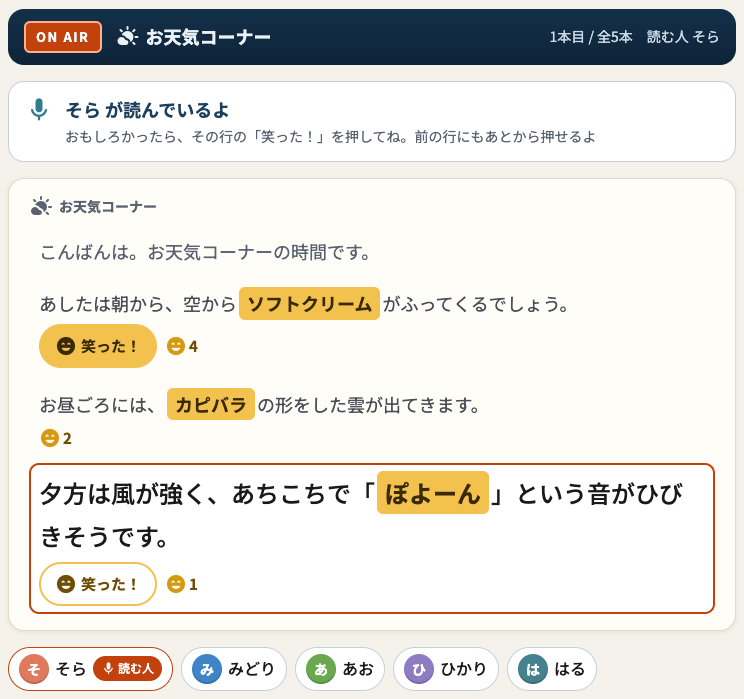
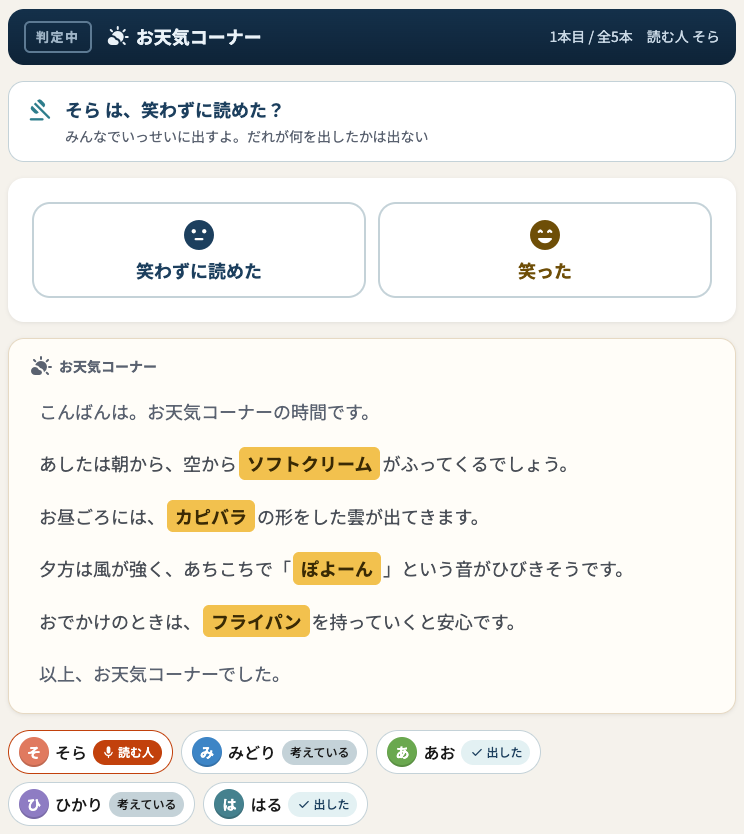
fix(kanpe-housou): 説明スライドとサムネイルを、読みおわったあとの判定のルールに合わせる
- c0cef58 で「笑った！」が、読む人が笑ったかどうかをみんなで出す判定に変わったのに合わせる
- スライドを15枚に: 読む人は笑わずに読みきれるかに挑む／読みおわったら判定（だれが何を出したかは出ない）／
  半分より多ければ読みきり・同じ数は笑っちゃった／交代と「きょうの放送」・順位をオンにしたときの点／
  書くだけの人も判定する／Q&A。発表者ノートも合わせた
- サムネイルを判定の場面（「笑わずに読めた」「笑った」と言葉の入った原稿）に撮り直す（744×834）
- 更新情報・撮影記録・仕様書の枚数を更新

diff --git a/apps/kanpe-housou/slides.html b/apps/kanpe-housou/slides.html
@@ -90,7 +90,7 @@
 
   /* 原稿とカンペの見本 */
   .cols--write{ grid-template-columns:400px 1fr; align-items:start; }
-  .cols--laugh{ grid-template-columns:600px 1fr; align-items:start; }
+  .cols--judge{ grid-template-columns:520px 1fr; align-items:start; }
   .flow--3{ grid-template-columns:repeat(3, 1fr); }
   .hintcard{ background:var(--white); border:1.5px solid var(--line); border-radius:18px; padding:24px 26px; display:flex; flex-direction:column; gap:8px; }
   .hintcard__cap{ font-size:17px; font-weight:700; color:var(--muted); letter-spacing:.08em; }
@@ -100,17 +100,13 @@
   .hintcard__btns{ display:flex; gap:10px; margin-top:6px; }
   .mbtn{ display:inline-flex; align-items:center; justify-content:center; min-width:110px; border-radius:12px; padding:11px 18px; font-size:20px; font-weight:900; border:2px solid var(--line); color:var(--ink); background:#fff; }
   .mbtn--primary{ background:var(--teal); border-color:var(--teal); color:#fff; }
-  .script{ background:var(--kanpe-paper); border:1.5px solid #E6D3BE; border-radius:18px; padding:20px 22px; display:flex; flex-direction:column; gap:10px; }
-  .script__head{ display:flex; align-items:center; gap:10px; font-size:21px; font-weight:900; color:#fff; background:var(--studio); border-radius:10px; padding:9px 14px; }
-  .script__head .material-symbols-rounded{ font-size:24px; color:var(--kanpe); }
-  .script__line{ font-size:22px; line-height:1.7; color:#4A4F57; padding:8px 12px; border-radius:10px; }
-  .script__line--frame{ color:var(--muted); font-size:20px; }
-  .script__line.is-current{ background:#fff; color:var(--ink); font-weight:700; box-shadow:0 0 0 2px var(--air) inset; }
-  .kw{ background:var(--kanpe-bg); color:var(--kanpe-text); border-bottom:3px solid var(--kanpe); border-radius:6px; padding:0 6px; font-weight:900; }
-  .lcount{ display:inline-flex; align-items:center; gap:3px; margin-left:10px; font-size:20px; font-weight:900; color:var(--kanpe-text); vertical-align:middle; }
-  .lcount .material-symbols-rounded{ font-size:26px; color:#D69A12; }
-  .lbtn{ display:inline-flex; align-items:center; gap:4px; margin-left:10px; padding:4px 14px; border:2px solid var(--kanpe); border-radius:999px; background:#fff; color:var(--kanpe-text); font-size:18px; font-weight:900; vertical-align:middle; }
-  .lbtn .material-symbols-rounded{ font-size:22px; }
+  .judgecard{ background:var(--white); border:1.5px solid var(--line); border-radius:18px; padding:26px 26px 28px; display:flex; flex-direction:column; gap:20px; }
+  .judgecard__q{ font-size:28px; font-weight:900; color:var(--ink); }
+  .judgecard__row{ display:grid; grid-template-columns:1fr 1fr; gap:14px; }
+  .choice{ display:flex; flex-direction:column; align-items:center; justify-content:center; gap:8px; min-height:150px; border:2px solid var(--line); border-radius:16px; background:#fff; font-size:22px; font-weight:900; text-align:center; padding:14px 10px; }
+  .choice .material-symbols-rounded{ font-size:52px; }
+  .choice--ok{ color:#1D6F86; border-color:#BFDCE4; background:#EAF4F6; }
+  .choice--laugh{ color:var(--kanpe-text); border-color:var(--kanpe); background:var(--kanpe-bg); }
 
   /* Q&A */
   .qa{ display:flex; flex-direction:column; gap:16px; }
@@ -245,16 +241,16 @@ const SLIDES = [
     sub:'今の気分を、ひとことどうぞ',
     note:'まずはチェックインから！\n今の気分や、最近あったことを、ひとことチャットか声で教えてね\n（カンペ放送局の説明は、このあとすぐ！）' },
 
-  /* 2 */ { type:'title', note:'今日のゲームは「カンペ放送局」\nみんなでテレビやラジオの放送をするよ。読む人の原稿には空らんがあって、そこにほかの人が書いた言葉が入る。どんな放送になるかは、読んでみるまでだれにもわからないよ！' },
+  /* 2 */ { type:'title', note:'今日のゲームは「カンペ放送局」\nみんなでテレビやラジオの放送をするよ。読む人の原稿には空らんがあって、そこにほかの人が書いた言葉が入る。読む人は、どんな言葉が出てきても、笑わずに読みきれるかな？' },
 
   /* 3 */ { type:'content', accent:'teal', section:'ゲームについて', sectionEn:'summary',
-    headline:'原稿の空らんに、<br><span class="hl">みんなが書いた言葉</span>が入る',
+    headline:'原稿の空らんに入った言葉を、<br><span class="hl">笑わずに読みきれるかな？</span>',
     body:`<div class="rows">
       <div class="row"><div class="row__ic"><span class="material-symbols-rounded">edit_note</span></div><div><div class="row__t">書く人は、ヒントだけを見て言葉を書く</div><div class="row__d">「食べ物」「音」のようなヒント。文の中身は知らないまま</div></div></div>
-      <div class="row"><div class="row__ic"><span class="material-symbols-rounded">mic</span></div><div><div class="row__t">読む人は、出てきた言葉をそのまま読む</div><div class="row__d">言葉は、読むときに初めて出てくる</div></div></div>
-      <div class="row"><div class="row__ic"><span class="material-symbols-rounded">sentiment_very_satisfied</span></div><div><div class="row__t">聞いている人は、「笑った！」を押す</div><div class="row__d">おもしろかった言葉に押そう</div></div></div>
+      <div class="row"><div class="row__ic"><span class="material-symbols-rounded">mic</span></div><div><div class="row__t">読む人は、出てきた言葉をそのまま読む</div><div class="row__d">言葉は、読むときに初めて出てくる。笑わずに読みきれるかな</div></div></div>
+      <div class="row"><div class="row__ic"><span class="material-symbols-rounded">gavel</span></div><div><div class="row__t">読み終わったら、みんなで判定</div><div class="row__d">「笑わずに読めた」か「笑った」かを、いっせいに出す</div></div></div>
     </div>`,
-    note:'読む人の原稿には、空らんがあるよ。\nほかの人は「食べ物」「音」みたいなヒントだけを見て、言葉を書く。文の中身は知らないまま書くのがポイント。\n読む人は、出てきた言葉をそのまま読む。言葉は、読むときに初めて出てくるよ。\n聞いている人は、おもしろかった言葉に「笑った！」を押してね。' },
+    note:'読む人の原稿には、空らんがあるよ。\nほかの人は「食べ物」「音」みたいなヒントだけを見て、言葉を書く。文の中身は知らないまま書くのがポイント。\n読む人は、出てきた言葉をそのまま読む。言葉は、読むときに初めて出てくるよ。どんな言葉が出てきても、笑わずに読みきれるかな？\n読み終わったら、読む人のほかのみんなで「笑わずに読めた」か「笑った」かを判定するよ。' },
 
   /* 4 */ { type:'content', accent:'blue', section:'ゲーム説明', sectionEn:'explain', num:'1',
     headline:'書く人には<span class="hl">ヒントだけ</span>が届く',
@@ -281,45 +277,55 @@ const SLIDES = [
       <div class="flow__step"><div class="flow__no">②</div><span class="material-symbols-rounded">skip_next</span><div class="flow__t">つぎへ</div><div class="flow__d">押すたびに、<br>次の行が出る</div></div>
       <div class="flow__step"><div class="flow__no">③</div><span class="material-symbols-rounded">flag</span><div class="flow__t">読みおわった</div><div class="flow__d">最後まで読んだら押す</div></div>
     </div>
-    <div class="demo-cap">言葉が変でも、<b>そのまま読んでね</b>。読んでいて笑っちゃっても大丈夫。</div>`,
-    note:'みんなが言葉を出したら、読む人の番組がはじまるよ。\n読む人は「読みはじめる」を押して、「つぎへ」を押しながら原稿を声に出して読む。押すたびに、次の行がみんなの画面にも出るよ。\n最後まで読んだら「読みおわった」を押してね。\n言葉が変でも、そのまま読んでね。読んでいて笑っちゃっても大丈夫だよ。' },
+    <div class="demo-cap">言葉が変でも、<b>笑わずにそのまま読みきろう</b>。聞いている人は、読む人が笑うかどうか、よく聞いていてね。</div>`,
+    note:'みんなが言葉を出したら、読む人の番組がはじまるよ。\n読む人は「読みはじめる」を押して、「つぎへ」を押しながら原稿を声に出して読む。押すたびに、次の行がみんなの画面にも出るよ。\n最後まで読んだら「読みおわった」を押してね。\n言葉が変でも、笑わずにそのまま読みきろう。聞いている人は、読む人が笑うかどうか、よく聞いていてね。' },
 
   /* 6 */ { type:'content', accent:'coral', section:'ゲーム説明', sectionEn:'explain', num:'3',
-    headline:'おもしろかったら<span class="hl">「笑った！」</span>',
-    body:`<div class="cols cols--auto cols--laugh">
-      <div class="script">
-        <div class="script__head"><span class="material-symbols-rounded">partly_cloudy_day</span>お天気コーナー</div>
-        <div class="script__line script__line--frame">こんばんは。お天気コーナーの時間です。</div>
-        <div class="script__line">あしたは朝から、空から<span class="kw">ソフトクリーム</span>がふってくるでしょう。<span class="lcount"><span class="material-symbols-rounded">sentiment_very_satisfied</span>3</span></div>
-        <div class="script__line is-current">お昼ごろには、<span class="kw">カピバラ</span>の形をした雲が出てきます。<span class="lbtn"><span class="material-symbols-rounded">sentiment_very_satisfied</span>笑った！</span></div>
+    headline:'読みおわったら、<span class="hl">みんなで判定</span>',
+    body:`<div class="cols cols--auto cols--judge">
+      <div class="judgecard">
+        <div class="judgecard__q">そら は、笑わずに読めた？</div>
+        <div class="judgecard__row">
+          <span class="choice choice--ok"><span class="material-symbols-rounded">sentiment_neutral</span>笑わずに読めた</span>
+          <span class="choice choice--laugh"><span class="material-symbols-rounded">sentiment_very_satisfied</span>笑った</span>
+        </div>
       </div>
       <div class="rows">
-        <div class="row"><div class="row__ic"><span class="material-symbols-rounded">history</span></div><div><div class="row__t">前の行にも、あとから押せる</div><div class="row__d">押すのがおくれても大丈夫</div></div></div>
-        <div class="row"><div class="row__ic"><span class="material-symbols-rounded">touch_app</span></div><div><div class="row__t">1つの言葉に1回</div><div class="row__d">もう一度押すと取り消し</div></div></div>
-        <div class="row"><div class="row__ic"><span class="material-symbols-rounded">block</span></div><div><div class="row__t">自分の言葉には押せない</div><div class="row__d">「おまかせ」で入った言葉にも押せないよ</div></div></div>
+        <div class="row"><div class="row__ic"><span class="material-symbols-rounded">groups</span></div><div><div class="row__t">読む人のほかのみんなが出す</div><div class="row__d">「書くだけ」の人も出すよ</div></div></div>
+        <div class="row"><div class="row__ic"><span class="material-symbols-rounded">touch_app</span></div><div><div class="row__t">1人1回、いっせいに出す</div><div class="row__d">みんなが出したら、結果が開く</div></div></div>
+        <div class="row"><div class="row__ic"><span class="material-symbols-rounded">visibility_off</span></div><div><div class="row__t">だれが何を出したかは出ない</div><div class="row__d">出したかどうかだけが出るよ</div></div></div>
       </div>
     </div>`,
-    note:'聞いている人は、おもしろかった行の「笑った！」を押してね。読む人も押せるよ。\n今読んでいる行だけじゃなくて、前の行にもあとから押せる。\n1つの言葉に押せるのは1回。もう一度押すと取り消しになるよ。\n自分の言葉と、「おまかせ」で入った言葉には押せないよ。' },
+    note:'読む人が「読みおわった」を押したら、判定の時間だよ。\n読む人のほかのみんなが、「笑わずに読めた」か「笑った」を1回だけ出す。「書くだけ」の人も出すよ。\nみんなが出したら、結果が開く。だれが何を出したかは出ないから、思ったとおりに出してね。' },
 
   /* 7 */ { type:'content', accent:'blue', section:'ゲーム説明', sectionEn:'explain', num:'4',
-    headline:'読みおわったら、<br><span class="ul">いちばん笑った言葉</span>',
+    headline:'「笑わずに読めた」が<br><span class="ul">半分より多ければ</span>読みきり',
     body:`<div class="rows">
-      <div class="row"><div class="row__ic"><span class="material-symbols-rounded">star</span></div><div><div class="row__t">「笑った！」がいちばん多い言葉が出る</div><div class="row__d">同じ数ならみんな。だれが書いたかも出るよ</div></div></div>
-      <div class="row"><div class="row__ic"><span class="material-symbols-rounded">sync_alt</span></div><div><div class="row__t">読む人は順番に交代</div><div class="row__d">みんなが1回ずつ（設定によっては2回ずつ）読んだらおしまい</div></div></div>
-      <div class="row"><div class="row__ic"><span class="material-symbols-rounded">movie</span></div><div><div class="row__t">おしまいに「きょうの名場面」</div><div class="row__d">番組ごとの、いちばん笑った言葉が並ぶ</div></div></div>
+      <div class="row"><div class="row__ic"><span class="material-symbols-rounded">emoji_events</span></div><div><div class="row__t">半分より多ければ「笑わずに読みきった！」</div><div class="row__d">読む人の成功</div></div></div>
+      <div class="row"><div class="row__ic"><span class="material-symbols-rounded">sentiment_very_satisfied</span></div><div><div class="row__t">そうでなければ「笑っちゃった！」</div><div class="row__d">同じ数のときも「笑っちゃった！」になる</div></div></div>
+      <div class="row"><div class="row__ic"><span class="material-symbols-rounded">edit_note</span></div><div><div class="row__t">原稿の中に、だれが書いたかも出る</div><div class="row__d">どの言葉をだれが書いたか、見てみよう</div></div></div>
     </div>`,
-    note:'読みおわったら、「笑った！」がいちばん多かった言葉が「いちばん笑った言葉」として出るよ。同じ数ならみんな出る。だれが書いたかも出るよ。\n読む人は順番に交代して、みんなが1回ずつ読んだらおしまい。ホストの設定によっては2回ずつになるよ。\nおしまいには「きょうの名場面」として、番組ごとのいちばん笑った言葉が並ぶよ。' },
+    note:'判定で「笑わずに読めた」が半分より多ければ、「笑わずに読みきった！」。読む人の成功だよ。\nそうでなければ「笑っちゃった！」。同じ数のときも「笑っちゃった！」になるよ。\n結果の画面では、原稿の中に、どの言葉をだれが書いたかも出るよ。' },
 
-  /* 8 */ { type:'content', accent:'teal', section:'書くだけ', sectionEn:'write only',
+  /* 8 */ { type:'content', accent:'teal', section:'ゲーム説明', sectionEn:'explain', num:'5',
+    headline:'読む人は交代、<br>おしまいに<span class="hl">「きょうの放送」</span>',
+    body:`<div class="rows">
+      <div class="row"><div class="row__ic"><span class="material-symbols-rounded">sync_alt</span></div><div><div class="row__t">読む人は順番に交代</div><div class="row__d">みんなが1回ずつ（設定によっては2回ずつ）読んだらおしまい</div></div></div>
+      <div class="row"><div class="row__ic"><span class="material-symbols-rounded">movie</span></div><div><div class="row__t">おしまいに「きょうの放送」</div><div class="row__d">1本ごとに、読みきったかと、書かれた言葉が並ぶ</div></div></div>
+      <div class="row"><div class="row__ic"><span class="material-symbols-rounded">leaderboard</span></div><div><div class="row__t">順位を出す設定のときは、点が入る</div><div class="row__d">読みきった読む人に1点。笑った回は、言葉を書いた人に1点ずつ</div></div></div>
+    </div>`,
+    note:'読む人は順番に交代して、みんなが1回ずつ読んだらおしまい。ホストの設定によっては2回ずつになるよ。\nおしまいには「きょうの放送」として、1本ごとに読みきったかと、書かれた言葉が並ぶよ。\nホストが「おしまいに順位を出す」にしたときは、点が入る。読みきった読む人に1点、読む人が笑った回は、言葉を書いた人に1点ずつだよ。' },
+
+  /* 9 */ { type:'content', accent:'coral', section:'書くだけ', sectionEn:'write only',
     headline:'マイクを使わない人は<br><span class="hl">「読まない（書くだけ）」</span>',
     body:`<div class="rows">
       <div class="row"><div class="row__ic"><span class="material-symbols-rounded">check_box</span></div><div><div class="row__t">待合室で、自分の「読まない（書くだけ）」にチェック</div><div class="row__d">ゲームがはじまる前に選んでね</div></div></div>
       <div class="row"><div class="row__ic"><span class="material-symbols-rounded">mic_off</span></div><div><div class="row__t">読む番は来ない</div><div class="row__d">声を出さなくても遊べるよ</div></div></div>
-      <div class="row"><div class="row__ic"><span class="material-symbols-rounded">edit_note</span></div><div><div class="row__t">言葉を書くのと「笑った！」はある</div><div class="row__d">みんなと同じように、放送に参加できる</div></div></div>
+      <div class="row"><div class="row__ic"><span class="material-symbols-rounded">edit_note</span></div><div><div class="row__t">言葉を書くのと判定はある</div><div class="row__d">みんなと同じように、放送に参加できる</div></div></div>
     </div>`,
-    note:'マイクを使わない人は、待合室で自分の「読まない（書くだけ）」にチェックを入れてね。\nそうすると、読む番は来ないよ。\n言葉を書くのと、「笑った！」を押すのはみんなと同じ。声を出さなくても、放送に参加できるよ。' },
+    note:'マイクを使わない人は、待合室で自分の「読まない（書くだけ）」にチェックを入れてね。\nそうすると、読む番は来ないよ。\n言葉を書くのと、読みおわったあとの判定はみんなと同じ。声を出さなくても、放送に参加できるよ。' },
 
-  /* 9 */ { type:'content', accent:'blue', section:'はじめかた', sectionEn:'how to join',
+  /* 10 */ { type:'content', accent:'blue', section:'はじめかた', sectionEn:'how to join',
     headline:'名前 → ルームコード →<br>「参加する」',
     body:`<div class="rows">
       <div class="row"><div class="row__ic"><span class="material-symbols-rounded">login</span></div><div><div class="row__t">「ルームに参加する」を押す</div><div class="row__d">名前、ルームコード（6文字）の順に入れて「参加する」</div></div></div>
@@ -328,30 +334,30 @@ const SLIDES = [
     </div>`,
     note:'参加のしかただよ。\n「ルームに参加する」を押して、名前、ルームコード（6文字）の順に入れて「参加する」。\nチャットのリンクからひらいたときは、ルームコードは入っているので名前だけ入れてね。スマホやタブレットの人は、QR コードを読みとってもOK。\n3〜8人そろったら、ホストが「放送をはじめる」を押すよ。それまで待合室で待っていてね。' },
 
-  /* 10 */ { type:'content', accent:'teal', section:'Q&A', sectionEn:'question & answer',
+  /* 11 */ { type:'content', accent:'teal', section:'Q&A', sectionEn:'question & answer',
     headline:'よくある質問',
     body:`<div class="qa">
       <div class="qa__item"><div class="qa__q"><span class="qa__badge q">Q</span>言葉が思いつかないときは？</div><div class="qa__a"><span class="qa__badge a">A</span>「おまかせ」を押すと、ヒントに合う言葉が入るよ。</div></div>
-      <div class="qa__item"><div class="qa__q"><span class="qa__badge q">Q</span>読んでいて笑っちゃったら？</div><div class="qa__a"><span class="qa__badge a">A</span>大丈夫。笑っちゃうのも、このゲームの楽しいところだよ。</div></div>
-      <div class="qa__item"><div class="qa__q"><span class="qa__badge q">Q</span>「笑った！」を押しまちがえたら？</div><div class="qa__a"><span class="qa__badge a">A</span>もう一度押すと取り消しになるよ。</div></div>
+      <div class="qa__item"><div class="qa__q"><span class="qa__badge q">Q</span>読んでいて笑っちゃったら？</div><div class="qa__a"><span class="qa__badge a">A</span>そのまま最後まで読もう。笑っちゃうのも、このゲームの楽しいところだよ。</div></div>
+      <div class="qa__item"><div class="qa__q"><span class="qa__badge q">Q</span>判定で、だれが何を出したかわかる？</div><div class="qa__a"><span class="qa__badge a">A</span>わからないよ。画面に出るのは、出したかどうかと結果だけだよ。</div></div>
     </div>`,
-    note:'よくある質問だよ\nQ. 言葉が思いつかないときは？→ A. 「おまかせ」を押すと、ヒントに合う言葉が入るよ。\nQ. 読んでいて笑っちゃったら？→ A. 大丈夫。笑っちゃうのも、このゲームの楽しいところだよ。\nQ. 「笑った！」を押しまちがえたら？→ A. もう一度押すと取り消しになるよ。' },
+    note:'よくある質問だよ\nQ. 言葉が思いつかないときは？→ A. 「おまかせ」を押すと、ヒントに合う言葉が入るよ。\nQ. 読んでいて笑っちゃったら？→ A. そのまま最後まで読もう。笑っちゃうのも、このゲームの楽しいところだよ。\nQ. 判定で、だれが何を出したかわかる？→ A. わからないよ。画面に出るのは、出したかどうかと結果だけだよ。' },
 
-  /* 11 */ { type:'divider', accent:'blue', icon:'live_help', jp:'質問タイム', en:'any questions?',
+  /* 12 */ { type:'divider', accent:'blue', icon:'live_help', jp:'質問タイム', en:'any questions?',
     sub:'気になることはある？',
     note:'ここまでで、質問がある人はいるかな？\nマイクON か チャットで教えてね！' },
 
-  /* 12 */ { type:'divider', accent:'coral', icon:'how_to_reg', jp:'参加確認', en:"let's check",
+  /* 13 */ { type:'divider', accent:'coral', icon:'how_to_reg', jp:'参加確認', en:"let's check",
     sub:'チャットで教えてね',
     note:'遊んでみたい人〜？\n「①遊びたい」「②見ていたい」「③その他」を、チャットで教えてね！\nマイクを使わないで遊びたい人は、待合室で「読まない（書くだけ）」を選べるよ。' },
 
-  /* 13 */ { type:'divider', accent:'teal', solid:true, icon:'podcasts', jp:'＼ 放送スタート ／', en:'on air',
-    sub:'どんな放送になるかな？',
+  /* 14 */ { type:'divider', accent:'teal', solid:true, icon:'podcasts', jp:'＼ 放送スタート ／', en:'on air',
+    sub:'笑わずに読みきれるかな？',
     note:'それでは、カンペ放送局スタート！\nまずはルームに参加してね。マイクを使わない人は、待合室で「読まない（書くだけ）」にチェックしてね。わからなくなったら、いつでも聞いてね' },
 
-  /* 14 */ { type:'divider', accent:'teal', solid:true, icon:'movie', jp:'きょうの名場面', en:'highlights',
+  /* 15 */ { type:'divider', accent:'teal', solid:true, icon:'movie', jp:'きょうの放送', en:'today\'s show',
     sub:'おつかれさま！',
-    note:'放送おつかれさま！\nきょうの名場面をふりかえってみよう。いちばんおもしろかった言葉や、読んでいて笑いそうになった行を、ひとことずつ教えてね。' },
+    note:'放送おつかれさま！\nきょうの放送をふりかえってみよう。おもしろかった言葉や、読んでいて笑いそうになった行を、ひとことずつ教えてね。' },
 ];
 
 /* ===== ウィンドウ間同期 ===== */
@@ -368,7 +374,7 @@ function slideHTML(s){
       <div class="title-ic"><span class="material-symbols-rounded">mic</span></div>
       <div class="title-jp">カンペ放送局</div>
       <div class="title-en">kanpe housou</div>
-      <div class="title-tag">〜 原稿の空らんに、思いがけない言葉 〜</div>
+      <div class="title-tag">〜 笑わずに読みきれるかな？ 〜</div>
       <div class="title-meta">
         <span class="m"><span class="material-symbols-rounded">group</span>3〜8人</span>
         <span class="m"><span class="material-symbols-rounded">schedule</span>15〜30分</span>

diff --git a/apps/index.html b/apps/index.html
@@ -1227,7 +1227,7 @@
         <a class="app-card" href="kanpe-housou/" data-added="2026-11-02" data-genre="kotoba" data-slides data-scenes="kotoba bodoge circle" data-yomi="かんぺほうそうきょく" data-keywords="読み上げ、空らん、お笑い、マイクなし">
           <div class="app-card__icon">
             <span class="material-symbols-rounded" aria-hidden="true">mic</span>
-            <img class="app-card__thumbnail" src="assets/thumbnails/kanpe-housou.png" alt="お天気コーナーの原稿を読んでいる途中の画面。空らんに入った「ソフトクリーム」「カピバラ」「ぽよーん」の行に、「笑った！」の数が出ている" width="744" height="699" loading="lazy" decoding="async" />
+            <img class="app-card__thumbnail" src="assets/thumbnails/kanpe-housou.png" alt="お天気コーナーを読みおわったあとの判定の画面。「そら は、笑わずに読めた？」の下に「笑わずに読めた」「笑った」のボタンと、空らんに「ソフトクリーム」「カピバラ」「ぽよーん」「フライパン」が入った原稿が並ぶ" width="744" height="834" loading="lazy" decoding="async" />
           </div>
           <div class="app-card__body">
             <div class="app-card__name">カンペ放送局</div>

diff --git a/apps/kanpe-housou/AGENTS.md b/apps/kanpe-housou/AGENTS.md
@@ -97,7 +97,7 @@ apps/kanpe-housou/
 - `scripts/lint.sh` の `RTDB_HTML_FILES` に追加
 - `scripts/content-audit.mjs` の `COVERED_APPS` に追加し、`collectEntries()` で原稿の行とおまかせの言葉を抽出
 - `apps/index.html` にカード（`data-genre="kotoba"`・`data-scenes="kotoba bodoge circle"`・`data-keywords="読み上げ、空らん、お笑い、マイクなし"`・`data-slides`）とサムネイル `assets/thumbnails/kanpe-housou.png`（撮り方は `docs/development/thumbnails.md`）
-- 説明スライド `slides.html`（14枚。`RoomkHowto.init` の `slides` で「？」からも開ける）。ルール・ボタン名を変えたらスライドと発表者ノートも直す
+- 説明スライド `slides.html`（15枚。`RoomkHowto.init` の `slides` で「？」からも開ける）。ルール・ボタン名を変えたらスライドと発表者ノートも直す
 - `apps/updates.json` 先頭に `type: "new"`
 - `apps/guide/index.html` の「言葉あそび系」に1行（近い遊び『ニュースの時間です』）
 
